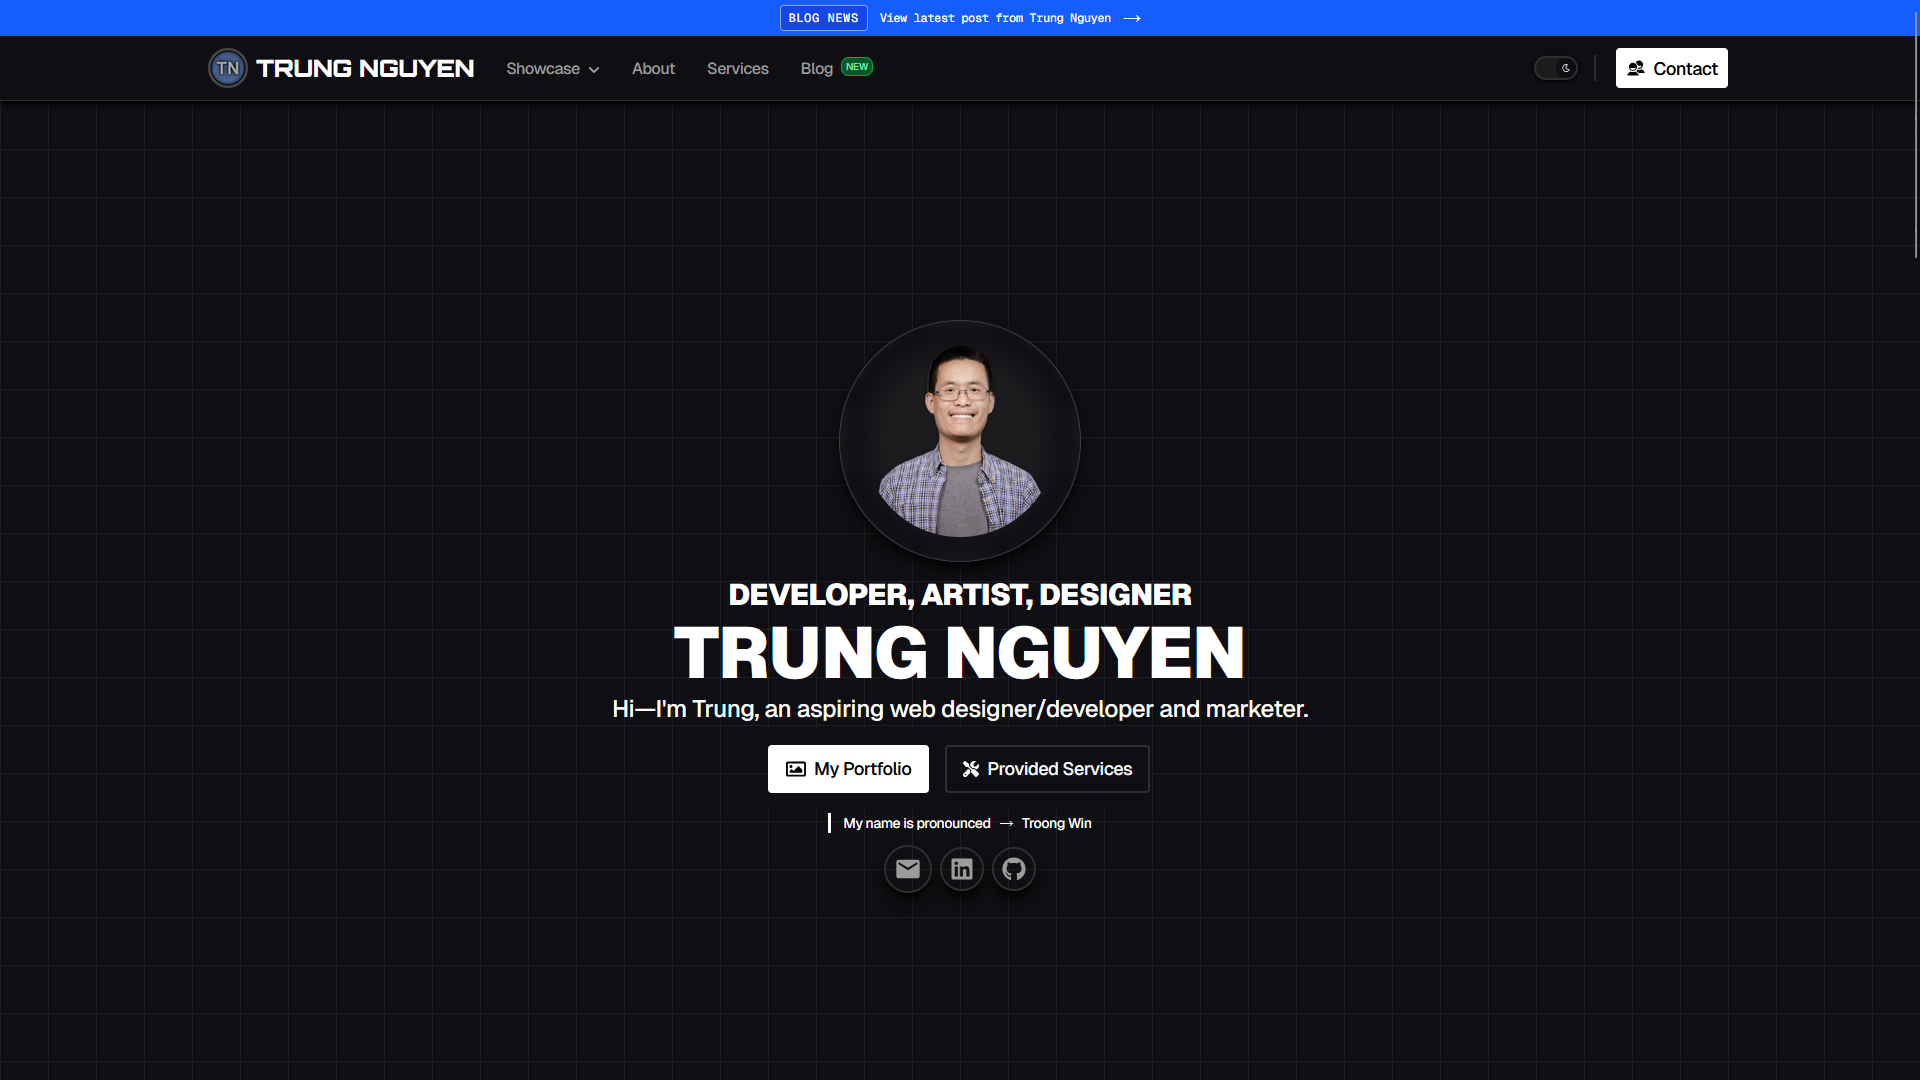
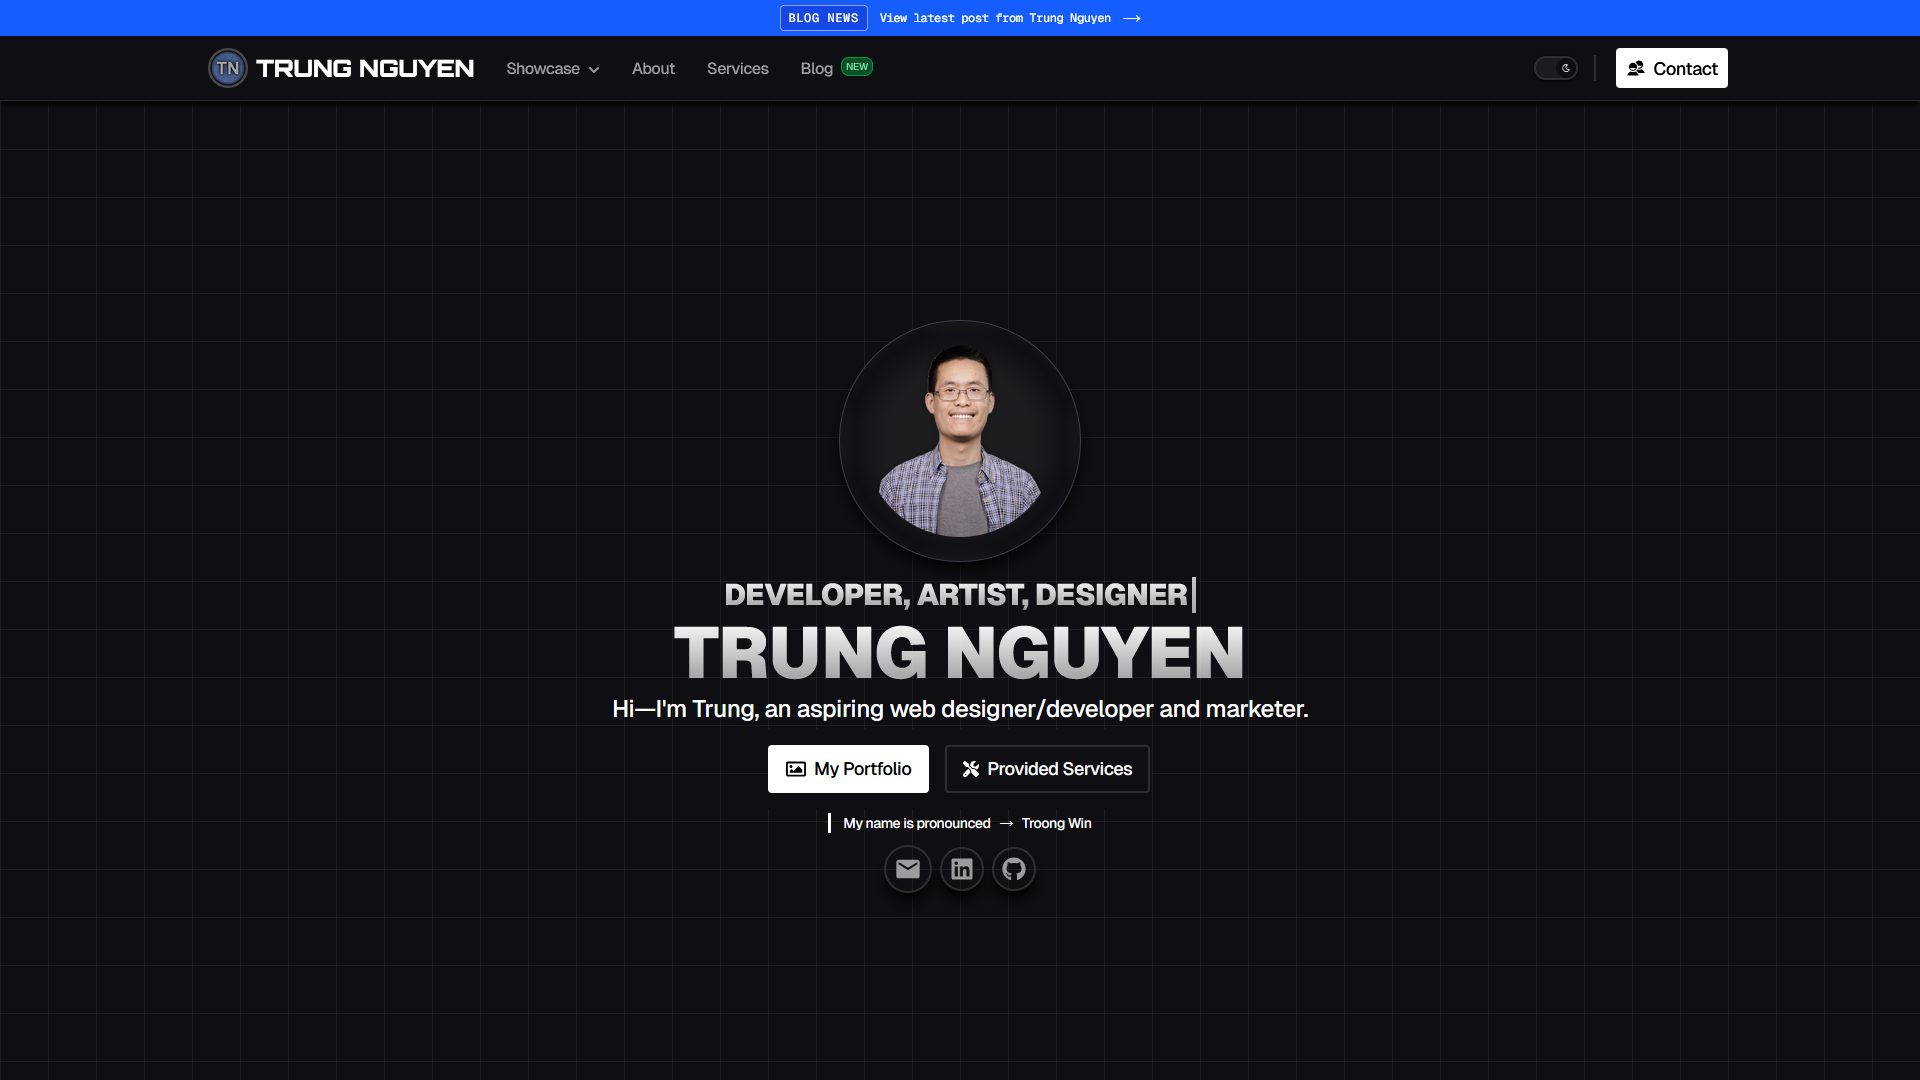
Update copyright + add new features

Changed region(s): [[0.3438, 0.5194, 0.6562, 0.6417]]

diff --git a/app/skills/page.jsx b/app/skills/page.jsx
@@ -11,32 +11,36 @@ export default function Skills() {
     const skillsCategories = [
         {
             category: 'LANGUAGES',
-            items: 'HTML & CSS--JavaScript & Node.js--C#--Python--SQL--Batch, PowerShell & Bash--WebAssembly--GLSL--PHP--Java'
-        },
-        {
-            category: '3D RENDERING',
-            items: 'Blender--Three.js--Babylon.js--PlayCanvas--Godot Engine'
-        },
-        {
-            category: 'ASSET CREATION',
-            items: 'Blender--Figma--GIMP--Inkscape--Canva--Adobe Illustrator--Adobe Photoshop--Visual Paradigm Online--Microsoft Paint--UMLetino'
-        },
-        {
-            category: 'HOSTING PROVIDERS',
-            items: 'GitHub Pages--SmarterASP.net--Microsoft Azure--Vercel--Apache HTTP Server / XAMPP--Self-Hosting'
+            items: 'HTML--CSS--JS & Node.js--C#--Python--SQL--Batch, PowerShell & Bash--WASM--GLSL--PHP--Java'
         },
         {
             category: 'WEBSITE BUILDERS',
-            items: 'Wix--Webflow--Framer--WordPress--Squarespace--Shopify--Google Sites--Canva Sites--Weebly--Grapes.js',
+            items: 'Webflow--Framer--WordPress--Wix--Squarespace--Shopify--Google Sites--Canva Sites--Weebly--Grapes.js',
             subItems: {
-                0: 'Classic (editor)--Editor X (editor)--Studio (editor)--Codux (application)',
                 2: 'WordPress.org (self-host)--WordPress.com (cloud)--Elementor (plugin)--Gutenberg (plugin)',
+                3: 'Classic (editor)--Editor X (editor)--Studio (editor)--Blocks (editor)--Codux (application)',
                 4: 'Classic (editor)--Studio (editor)'
             }
         },
         {
+            category: 'HOSTING PROVIDERS',
+            items: 'GitHub Pages--Cloudflare Pages--SmarterASP.net--Microsoft Azure--Vercel--Apache HTTP Server / XAMPP--Self-Hosting'
+        },
+        {
+            category: 'WEBGL',
+            items: 'Three.js--Babylon.js--PlayCanvas--Unity--Godot Engine--WebGL'
+        },
+        {
+            category: 'ASSET CREATION',
+            items: 'Blender--Figma--GIMP--Inkscape--Canva--Adobe Illustrator--Adobe Photoshop--Lucidchart--Visual Paradigm Online--UMLetino--Microsoft Paint'
+        },
+        {
             category: 'IDE',
             items: 'Visual Studio Code--Visual Studio--GitHub Dev--Replit'
+        },
+        {
+            category: 'JS FRAMEWORKS',
+            items: 'React.js--Next.js--Create React App--React Native--Expo Go'
         },
         {
             category: 'CSS FRAMEWORKS',
@@ -44,13 +48,13 @@ export default function Skills() {
             subItems: { 0: 'Node--CDN', 1: 'Node--CDN', 2: 'CDN', 3: 'CDN' }
         },
         {
-            category: 'JS FRAMEWORKS',
-            items: 'React.js--Next.js--Create React App--React Native--Expo Go'
-        },
-        {
             category: 'C# FRAMEWORKS',
             items: '.NET',
             subItems: { 0: 'ASP.NET--EF Core--ADO.NET' }
+        },
+        {
+            category: 'DATABASE',
+            items: 'MySQL--MySQL Workbench--MSSQL--SSMS'
         },
         {
             category: 'API',
@@ -58,15 +62,11 @@ export default function Skills() {
         },
         {
             category: 'CYBERSECURITY',
-            items: 'Tampermonkey--ZAP--Apache JMeter--(etc.)'
+            items: 'Tampermonkey--BurpSuite--ZAP--Apache JMeter--Cheat Engine'
         },
         {
-            category: 'DATABASE',
-            items: 'MySQL--MySQL Workbench--MSSQL--SSMS'
-        },
-        {
-            category: 'VERSION CONTROL',
-            items: 'GitHub--Git--GitHub Desktop--Visual Studio Code--Visual Studio--GitHub Dev--GitLab'
+            category: 'GIT CLIENTS & UI',
+            items: 'Git--GitHub Desktop--Visual Studio Code--Visual Studio--GitHub Dev'
         },
         {
             category: 'DEVOPS & CI/CD',
@@ -86,31 +86,31 @@ export default function Skills() {
         },
         {
             category: 'FILE SHARING',
-            items: 'FileZilla--FTP & FTPS--SSH'
+            items: 'GitHub--FileZilla--FTP & FTPS--SSH--Web Deploy--Google Drive--GitLab'
+        },
+        {
+            category: 'DATA VISUALIZATION',
+            items: 'Microsoft Excel--Microsoft PowerBI--Google Sheets'
+        },
+        {
+            category: 'PRESENTATION',
+            items: 'Microsoft PowerPoint--Google Slides'
         },
         {
             category: 'WORD PROCESSORS',
             items: 'Microsoft Word--Google Docs--LibreOffice Writer'
         },
         {
-            category: 'SPREADSHEETS',
-            items: 'Microsoft Excel--Google Sheets'
-        },
-        {
-            category: 'PRESENTATIONS',
-            items: 'Microsoft PowerPoint--Google Slides'
-        },
-        {
             category: 'TEXT & MEDIA CONVERTORS',
-            items: 'FFmpeg--pandoc--ImageMagick--Ezgif'
+            items: 'FFmpeg--Pandoc--ImageMagick--Ezgif--PDFsam'
         },
         {
-            category: 'COLLABORATION',
-            items: 'Zoom--Google Meet--Slack--Discord'
+            category: 'VIDEO CONFERENCING',
+            items: 'Google Meet--Zoom--Slack--Discord'
         },
         {
             category: 'SCREEN CAPTURE',
-            items: 'Snipping Tool--OBS Studio--PowerPoint--Xbox Gamebar'
+            items: 'OBS Studio--Snipping Tool--PowerPoint--Xbox Gamebar'
         },
         {
             category: 'SOFT SKILLS',
@@ -126,7 +126,7 @@ export default function Skills() {
         },
         {
             category: 'OTHER SKILLS',
-            items: 'AJAX--Scaffolding--Markdown--Pandoc--SEO'
+            items: 'AJAX--Scaffolding--Markdown--SEO--GEO'
         }
     ];
 
@@ -153,7 +153,7 @@ export default function Skills() {
                                 )}
                             </span>
                         </div>
-                        <div className='grid size-full gap-4 lg:grid-cols-3'>
+                        <div className='grid gap-4 lg:grid-cols-3'>
                             {skillsCategories.map((item, i) => (
                                 <React.Fragment key={i}>
                                     <SkillsCategory

diff --git a/app/components/Navbar.jsx b/app/components/Navbar.jsx
@@ -58,9 +58,9 @@ export default function Navbar() {
 
     return !mounted ? null : (
         <>
-            {/* Navbar */}
+            {/* Nav */}
             <header
-                className={`sticky top-0 left-0 border-b shadow-sm dark:shadow-md ${styleDefaults.shadowColor} ${styleDefaults.borderColor} z-2 bg-inherit`}>
+                className={`sticky top-0 left-0 border-b bg-[rgba(255,255,255,0.5)] shadow-sm backdrop-blur-lg dark:bg-[rgba(15,15,19,0.5)] dark:shadow-md ${styleDefaults.shadowColor} ${styleDefaults.borderColor} z-2`}>
                 {/* Banner */}
                 <div className='relative'>
                     <ul>
@@ -101,6 +101,7 @@ export default function Navbar() {
                         </svg>
                     </button> */}
                 </div>
+                {/* Navbar */}
                 <nav className='container mx-auto flex flex-col justify-between lg:flex-row lg:items-center'>
                     {/* Nav - Left */}
                     <div className='flex w-full flex-col lg:h-[64px] lg:w-max lg:flex-row lg:items-center'>
@@ -255,7 +256,7 @@ export default function Navbar() {
                                 body={
                                     <>
                                         Blog
-                                        <span className='absolute top-1/4 left-[3.5rem] rounded-lg border border-green-400 bg-green-100 px-1 py-px text-[10px] text-green-600 lg:top-1/3 lg:left-7/8 dark:border-green-600 dark:bg-green-900 dark:text-green-300'>
+                                        <span className='absolute top-1/4 left-[3.5rem] animate-[pulseCustom_2s_ease-in-out_infinite] rounded-lg border border-green-400 bg-green-100 px-1 py-px text-[10px] text-green-600 lg:top-1/3 lg:left-7/8 dark:border-green-600 dark:bg-green-900 dark:text-green-300'>
                                             NEW
                                         </span>
                                     </>
@@ -400,6 +401,7 @@ export default function Navbar() {
                     </ul>
                 </nav>
             </header>
+            {/* Nav Mask */}
             <div
                 className={`${(isMobile && !mobileCollapsed) || !allDropdownsCollapsed.every(v => v === true) ? 'opacity-100 lg:pointer-events-auto' : 'pointer-events-none opacity-0'} fixed top-0 left-0 z-1 size-full bg-[rgba(255,255,255,0.75)] backdrop-blur-lg transition-opacity duration-200 ease-in-out dark:bg-[rgba(0,0,0,0.5)]`}
                 onClick={handleToggleMobileMenu}></div>

diff --git a/app/globals.jsx b/app/globals.jsx
@@ -18,6 +18,12 @@ export const styleTemplates = {
     navlinkHover: `duration-200 ease-in-out ${styleDefaults.textColorSecondary} dark:hover:text-white hover:text-black`,
     buttonPrimary: `${styleDefaults.button} bg-black text-white dark:bg-white dark:text-black border-black dark:border-white hover:bg-[rgb(25%,25%,25%)] dark:hover:bg-[rgb(87.5%,87.5%,87.5%)] hover:border-hover:bg-[rgb(25%,25%,25%)] dark:hover:border-[rgb(87.5%,87.5%,87.5%)]`,
     buttonSecondary: `${styleDefaults.button} ${styleDefaults.borderColor} ${styleDefaults.backgroundColor} hover:bg-[rgb(93.75%,93.75%,93.75%)] dark:hover:bg-[rgb(12.5%,12.5%,12.5%)]`,
+    effectTypewriter:
+        'before:bg-linear-[0deg,black_0%,rgba(0,0,0,0.625)_87.5%] dark:before:bg-linear-[180deg,rgb(255,255,255)_0%,rgba(255,255,255,0.125)_200%] before:bg-clip-text before:bg-[length:200%_100%] relative z-0 text-transparent before:absolute before:top-0 before:left-0 before:z-[1] before:[animation:typewriter_6s_steps(32)_infinite] before:overflow-hidden before:border-r-4 pe-2 before:border-[rgba(0,0,0,0.125)] dark:before:border-[rgba(255,255,255,0.5)] before:whitespace-nowrap before:content-[attr(data-text)]',
+    effectMetal:
+        // 'bg-linear-[45deg,black_0%,#808080_30%,black_50%,#808080_70%,black_100%] dark:bg-linear-[45deg,white_0%,#808080_30%,#808080_50%,#808080_70%,white_100%] bg-clip-text text-transparent bg-[length:200%_100%] [animation:shimmer_3s_linear_infinite]',
+        // 'bg-linear-[45deg,white_0%,rgba(186,186,255,0.75)_50%,white_100%] bg-clip-text text-transparent bg-[length:200%_100%] [animation:shimmer_3s_linear_infinite]',
+        'bg-linear-[0deg,black_0%,rgba(0,0,0,0.625)_87.5%] dark:bg-linear-[180deg,white_0%,rgba(255,255,255,0.125)_200%] bg-clip-text text-transparent bg-[length:200%_100%]',
     threeCanvas: `size-[384px] cursor-pointer group rounded-[3rem] border-16 border-transparent bg-[radial-gradient(at_50%_50%,_rgb(243,243,240)_50%,_rgb(255,255,255)_75%,_rgb(243,243,240)_100%)] dark:bg-[radial-gradient(at_50%_50%,_rgb(28,28,31)_50%,_rgb(15,15,19)_75%,_rgb(28,28,31)_100%)] shadow-lg ${styleDefaults.shadowColor} outline-2 dark:outline outline-[#E8E8E8] dark:outline-[#3c3c4c] flex items-center justify-center relative aspect-square`
 };
 

diff --git a/app/page.jsx b/app/page.jsx
@@ -34,10 +34,15 @@ export default function Home() {
                             />
                         </div>
                         {/* Text */}
-                        <h2 className='text-lg font-black lg:text-2xl xl:text-3xl'>
+                        <h2
+                            data-text='DEVELOPER, ARTIST, DESIGNER'
+                            className={`${styleTemplates.effectTypewriter} text-lg font-black lg:text-2xl xl:text-3xl`}>
                             DEVELOPER, ARTIST, DESIGNER
                         </h2>
-                        <h1 className='text-4xl font-black lg:text-5xl xl:text-7xl'>
+                        <h1
+                            id='test'
+                            className={`${styleTemplates.effectMetal} text-4xl font-black lg:text-5xl xl:text-7xl`}
+                            data-text='TRUNG NGUYEN'>
                             TRUNG NGUYEN
                         </h1>
                         <p className='w-[calc(100vw-12rem)] text-center text-sm font-medium lg:text-lg xl:text-2xl'>
@@ -264,7 +269,7 @@ export default function Home() {
                                     <ul className='ms-4 flex list-inside list-disc flex-col gap-2'>
                                         <li>
                                             Web, Mobile, Desktop{' '}
-                                            <sup className='ms-2 list-none rounded-lg border border-green-400 bg-green-100 px-1 py-px text-[8px] text-green-600 lg:text-sm dark:border-green-600 dark:bg-green-900 dark:text-green-300'>
+                                            <sup className='ms-2 animate-[pulseCustom_2s_ease-in-out_infinite] list-none rounded-lg border border-green-400 bg-green-100 px-1 py-px text-[8px] text-green-600 lg:text-sm dark:border-green-600 dark:bg-green-900 dark:text-green-300'>
                                                 Including Websites
                                             </sup>
                                         </li>

diff --git a/app/components/Dropdown.jsx b/app/components/Dropdown.jsx
@@ -49,7 +49,7 @@ export default function Dropdown({
                         </svg>
                         {/* Dropdown Items */}
                         <ul
-                            className={`invisible z-2 opacity-0 transition-opacity duration-200 ease-in-out lg:w-max lg:grid-cols-1 lg:group-hover:visible lg:group-hover:opacity-100 xl:grid-cols-[repeat(auto-fit,minmax(200px,1fr))] ${styleDefaults.backgroundColor} ${styleDefaults.borderColor} absolute top-[calc(200%-4px)] left-[-1rem] flex gap-4 rounded-b-[0.5rem] border p-4 text-white shadow-xs dark:shadow-md ${styleDefaults.shadowColor}`}>
+                            className={`invisible z-2 bg-[rgba(255,255,255,0.75)] opacity-0 backdrop-blur-lg transition-opacity duration-200 ease-in-out lg:w-max lg:grid-cols-1 lg:group-hover:visible lg:group-hover:opacity-100 xl:grid-cols-[repeat(auto-fit,minmax(200px,1fr))] dark:bg-[rgba(15,15,19,0.75)] ${styleDefaults.borderColor} absolute top-[calc(200%-4px)] left-[-1rem] flex gap-4 rounded-b-[0.5rem] border p-4 text-white shadow-xs dark:shadow-md ${styleDefaults.shadowColor}`}>
                             {itemsDesktop.map((item, id) => (
                                 <li
                                     key={id}

diff --git a/tailwind.config.js b/tailwind.config.js
@@ -1,15 +1,13 @@
-/** @type {import('tailwindcss').Config} */
-module.exports = {
-    content: ['./app/**/*.{js,jsx}'],
-    safelist: [
-        'peer/portfolio',
-        'lg:peer-hover/portfolio:block',
-        'peer-hover/portfolio:opacity-100',
-        'group/portfolio',
-        'group-hover/portfolio:translate-x-2',
-        'group-hover/portfolio:text-black',
-        'dark:group-hover/portfolio:text-white',
-        'lg:grid-cols-2'
-    ],
-    darkMode: 'class'
-};
+// /** @type {import('tailwindcss').Config} */
+// export const content = ['./app/**/*.{js,jsx}'];
+// export const safelist = [
+//     'peer/portfolio',
+//     'lg:peer-hover/portfolio:block',
+//     'peer-hover/portfolio:opacity-100',
+//     'group/portfolio',
+//     'group-hover/portfolio:translate-x-2',
+//     'group-hover/portfolio:text-black',
+//     'dark:group-hover/portfolio:text-white',
+//     'lg:grid-cols-2',
+// ];
+// export const darkMode = 'class';

diff --git a/app/globals.css b/app/globals.css
@@ -1,11 +1,46 @@
 @import 'tailwindcss';
 @custom-variant dark (&:where(.dark, .dark *));
 
-noscript {
-    min-width: 100vw;
-    min-height: 100vh;
-    display: flex;
-    align-items: center;
-    justify-content: center;
-    font-family: Geist;
+:root {
+    --pulse-opacity-start: 0.5;
+    --pulse-opacity-end: 1;
+}
+
+.dark {
+    --pulse-opacity-start: 0.75;
+    --pulse-opacity-end: 1;
+}
+
+/* @keyframes shimmer {
+    0% {
+        background-position: 200% 0;
+    }
+    100% {
+        background-position: -200% 0;
+    }
+} */
+
+@keyframes pulseCustom {
+    0%,
+    100% {
+        opacity: var(--pulse-opacity-start);
+    }
+    50% {
+        opacity: var(--pulse-opacity-end);
+    }
+}
+
+@keyframes typewriter {
+    0% {
+        width: 0%;
+    }
+    50% {
+        width: 100%;
+    }
+    75% {
+        width: 100%;
+    }
+    100% {
+        width: 0%;
+    }
 }

diff --git a/app/portfolio/page.jsx b/app/portfolio/page.jsx
@@ -22,7 +22,7 @@ export default function Portfolio() {
                         {
                             title: 'CAPSTONE',
                             image: '/pages/portfolio/capstone.jpg',
-                            body: 'Team website demo using ASP.NET, Tailwind CSS & SmarterASP.net.',
+                            body: 'Two-term, team website demo using ASP.NET, Tailwind CSS & SmarterASP.net.',
                             buttons: (
                                 <>
                                     <PortfolioLink

diff --git a/app/components/Footer.jsx b/app/components/Footer.jsx
@@ -40,7 +40,7 @@ export default function Footer() {
                         />
                         <li>
                             <ul className='flex items-center justify-center gap-2 px-2 lg:justify-start'>
-                                <li>Copyright &copy; 2025</li>
+                                <li>Copyright &copy; 2026</li>
                                 <li>
                                     <ul className='flex items-center gap-[0.25rem]'>
                                         {/* Email */}

diff --git a/README.md b/README.md
@@ -12,15 +12,17 @@
 
 ### KNOWN REQUESTS
 
-- Allow mousewheel camera rotation for 3D models.
+    - Make pinned banner dismissible.
+    - Allow mousewheel camera rotation for 3D models.
+    - Add smooth theme toggle transition.
 
 ### TODO
 
 - HEADER
-    - Make pinned banner dismissible.
     - Implement dropdown menus for mobile navbar.
     - Complete breadcrumbs for non-home pages.
 - HOMEPAGE
+    - Add showcase and/or skills sections'.
     - Add mobile, touch-based visibility toggling for 3D model credits.
 - BLOG
     - Complete individual blog pages.
@@ -29,11 +31,11 @@
     - Add animation transition for tab toggling.
     - Add custom icons per project.
     - Add lengthier descriptions of each project.
-- SKILLS
-    - Reduce spacing around cells.
+    - Add first person demos (ThreeJS, BabylonJS, PlayCanvas, Godot, GDevelop, Defold, etc.).
 - RESUME
     - Complete resume page.
 - MISC
+    - Add more gradients to background.
     - Add motion safe/reduced classes to compliment transition classes.
     - Convert responsive breakpoints to "md" instead of "lg".
     - Convert all appropriate event handlers into one file to prevent unnessary duplicate events.
